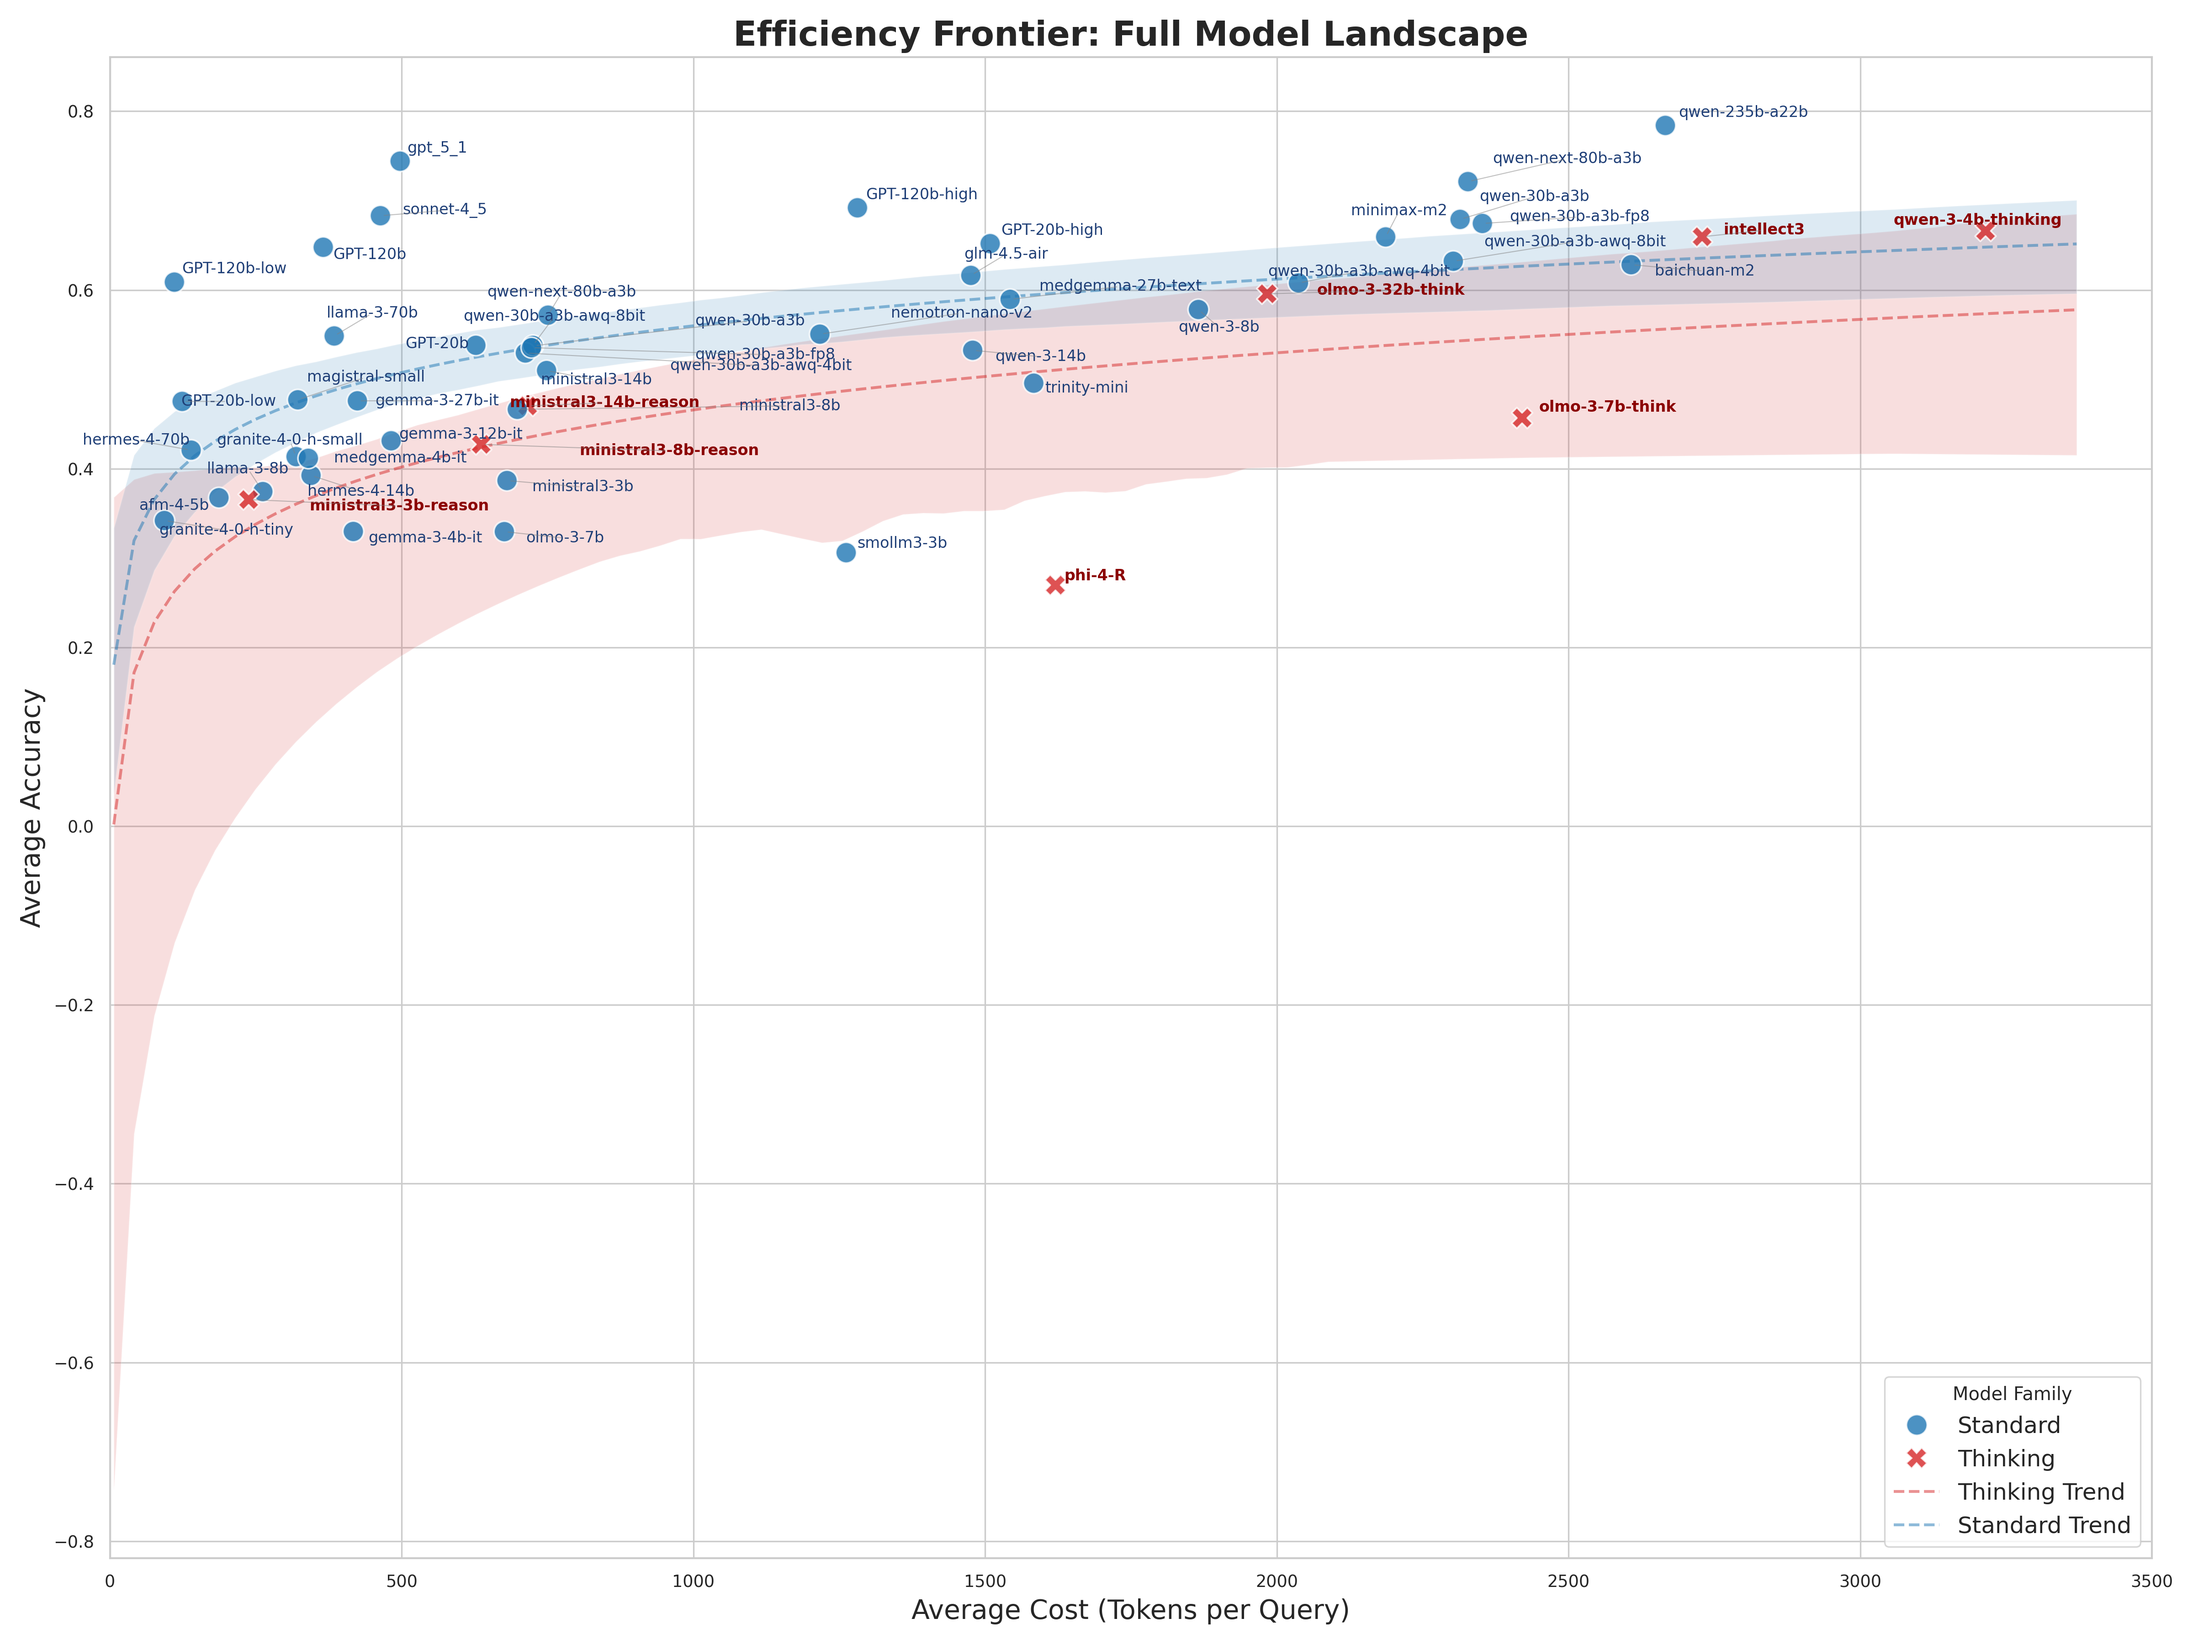
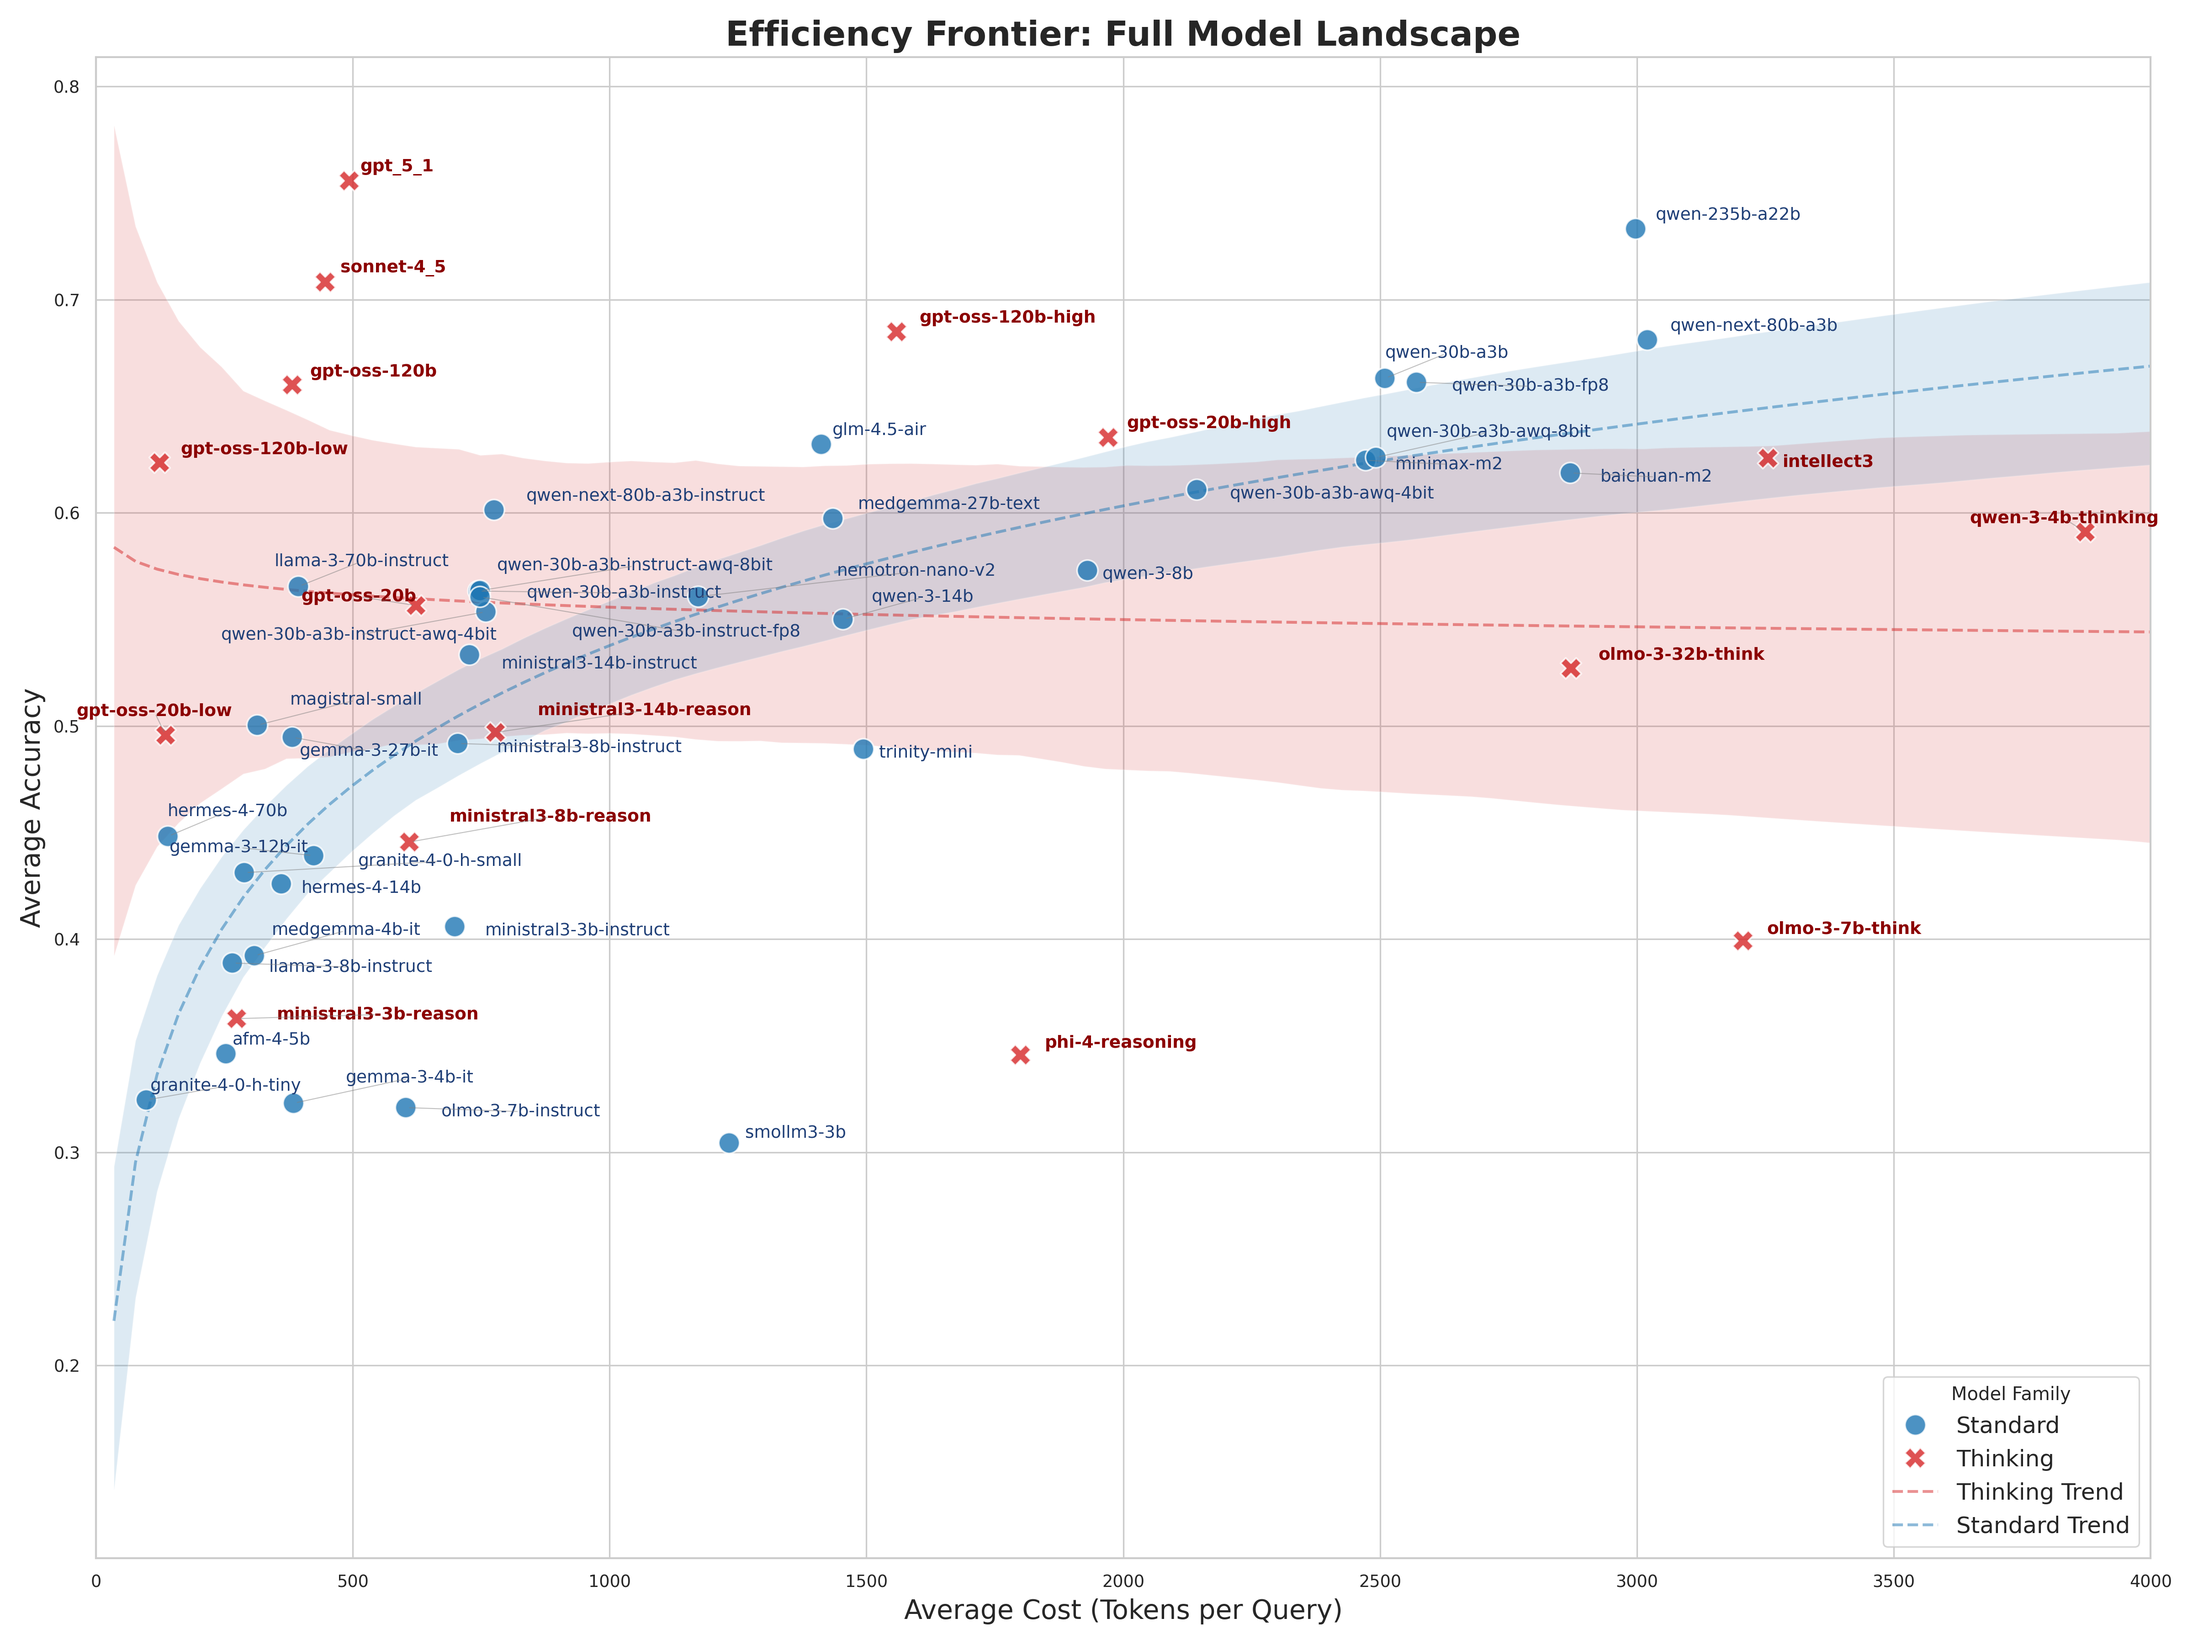
update : new thinking frontier plot

diff --git a/scripts/thinking_tax.py b/scripts/thinking_tax.py
@@ -6,7 +6,7 @@ import os
 import numpy as np
 
 DATA_DIR = "../inference-scratch"
-OUTPUT_FILE = "thinking_efficiency_frontier_final.png"
+OUTPUT_FILE = "thinking_efficiency_frontier_final_previous.png"
 
 TARGET_TASKS = [
     'medqa', 
@@ -61,7 +61,11 @@ def analyze_efficiency_frontier_final():
         Cost=('model_token_completion', 'mean')
     ).reset_index()
 
-    think_keywords = ['think', 'reason', 'qwq', 'intellect']
+    think_keywords = [
+        'think', 'reason', 'qwq', 'intellect', 
+    #    'gpt-oss', 'sonnet-4_5', 'gpt_5_1'
+    ]
+    
     model_metrics['Family'] = model_metrics['model_id'].apply(lambda x: 
         'Thinking' if any(k in x.lower() for k in think_keywords) else 'Standard')
 
@@ -86,7 +90,7 @@ def analyze_efficiency_frontier_final():
 
     texts = []
     for _, row in model_metrics.iterrows():
-        short_name = row['model_id'].replace('-instruct', '').replace('-reasoning', '-R').replace('gpt-oss-', 'GPT-')
+        exact_name = row['model_id']
         
         label_color = '#8b0000' if row['Family'] == 'Thinking' else '#1f3f77'
         weight = 'bold' if row['Family'] == 'Thinking' else 'normal'
@@ -94,7 +98,7 @@ def analyze_efficiency_frontier_final():
         t = plt.text(
             row['Cost'], 
             row['Accuracy'], 
-            short_name, 
+            exact_name, # Using the exact name
             fontsize=FONT_SIZE, 
             weight=weight, 
             color=label_color,
